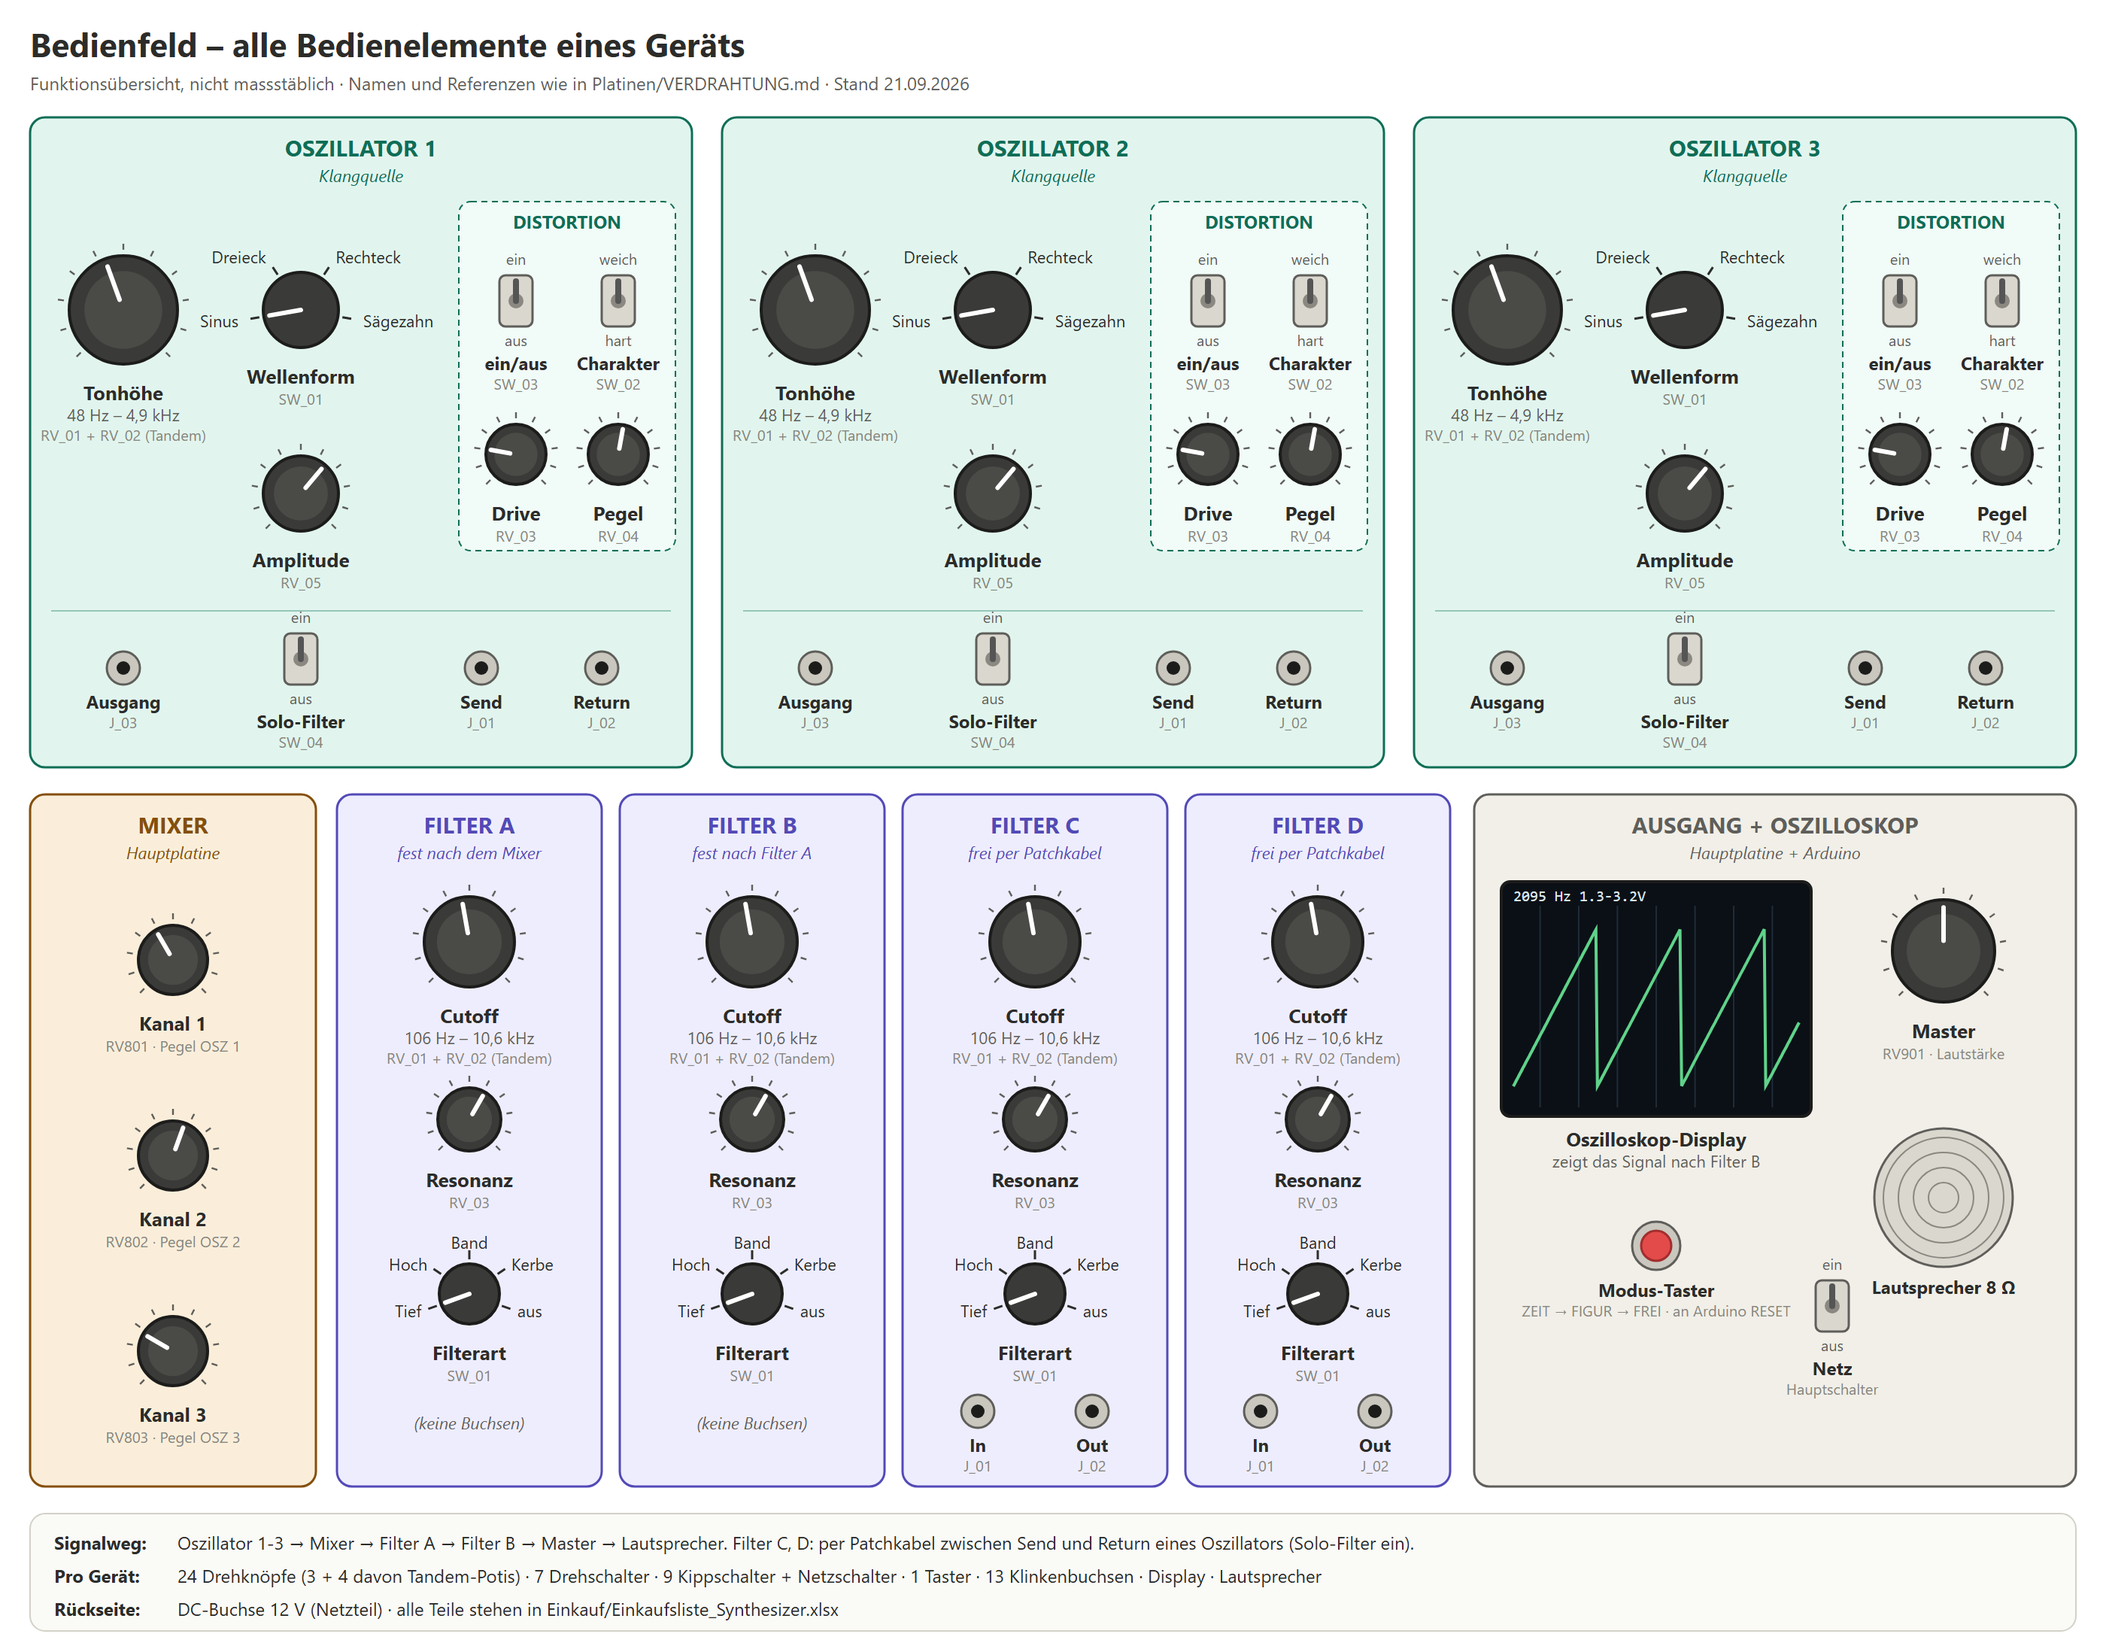
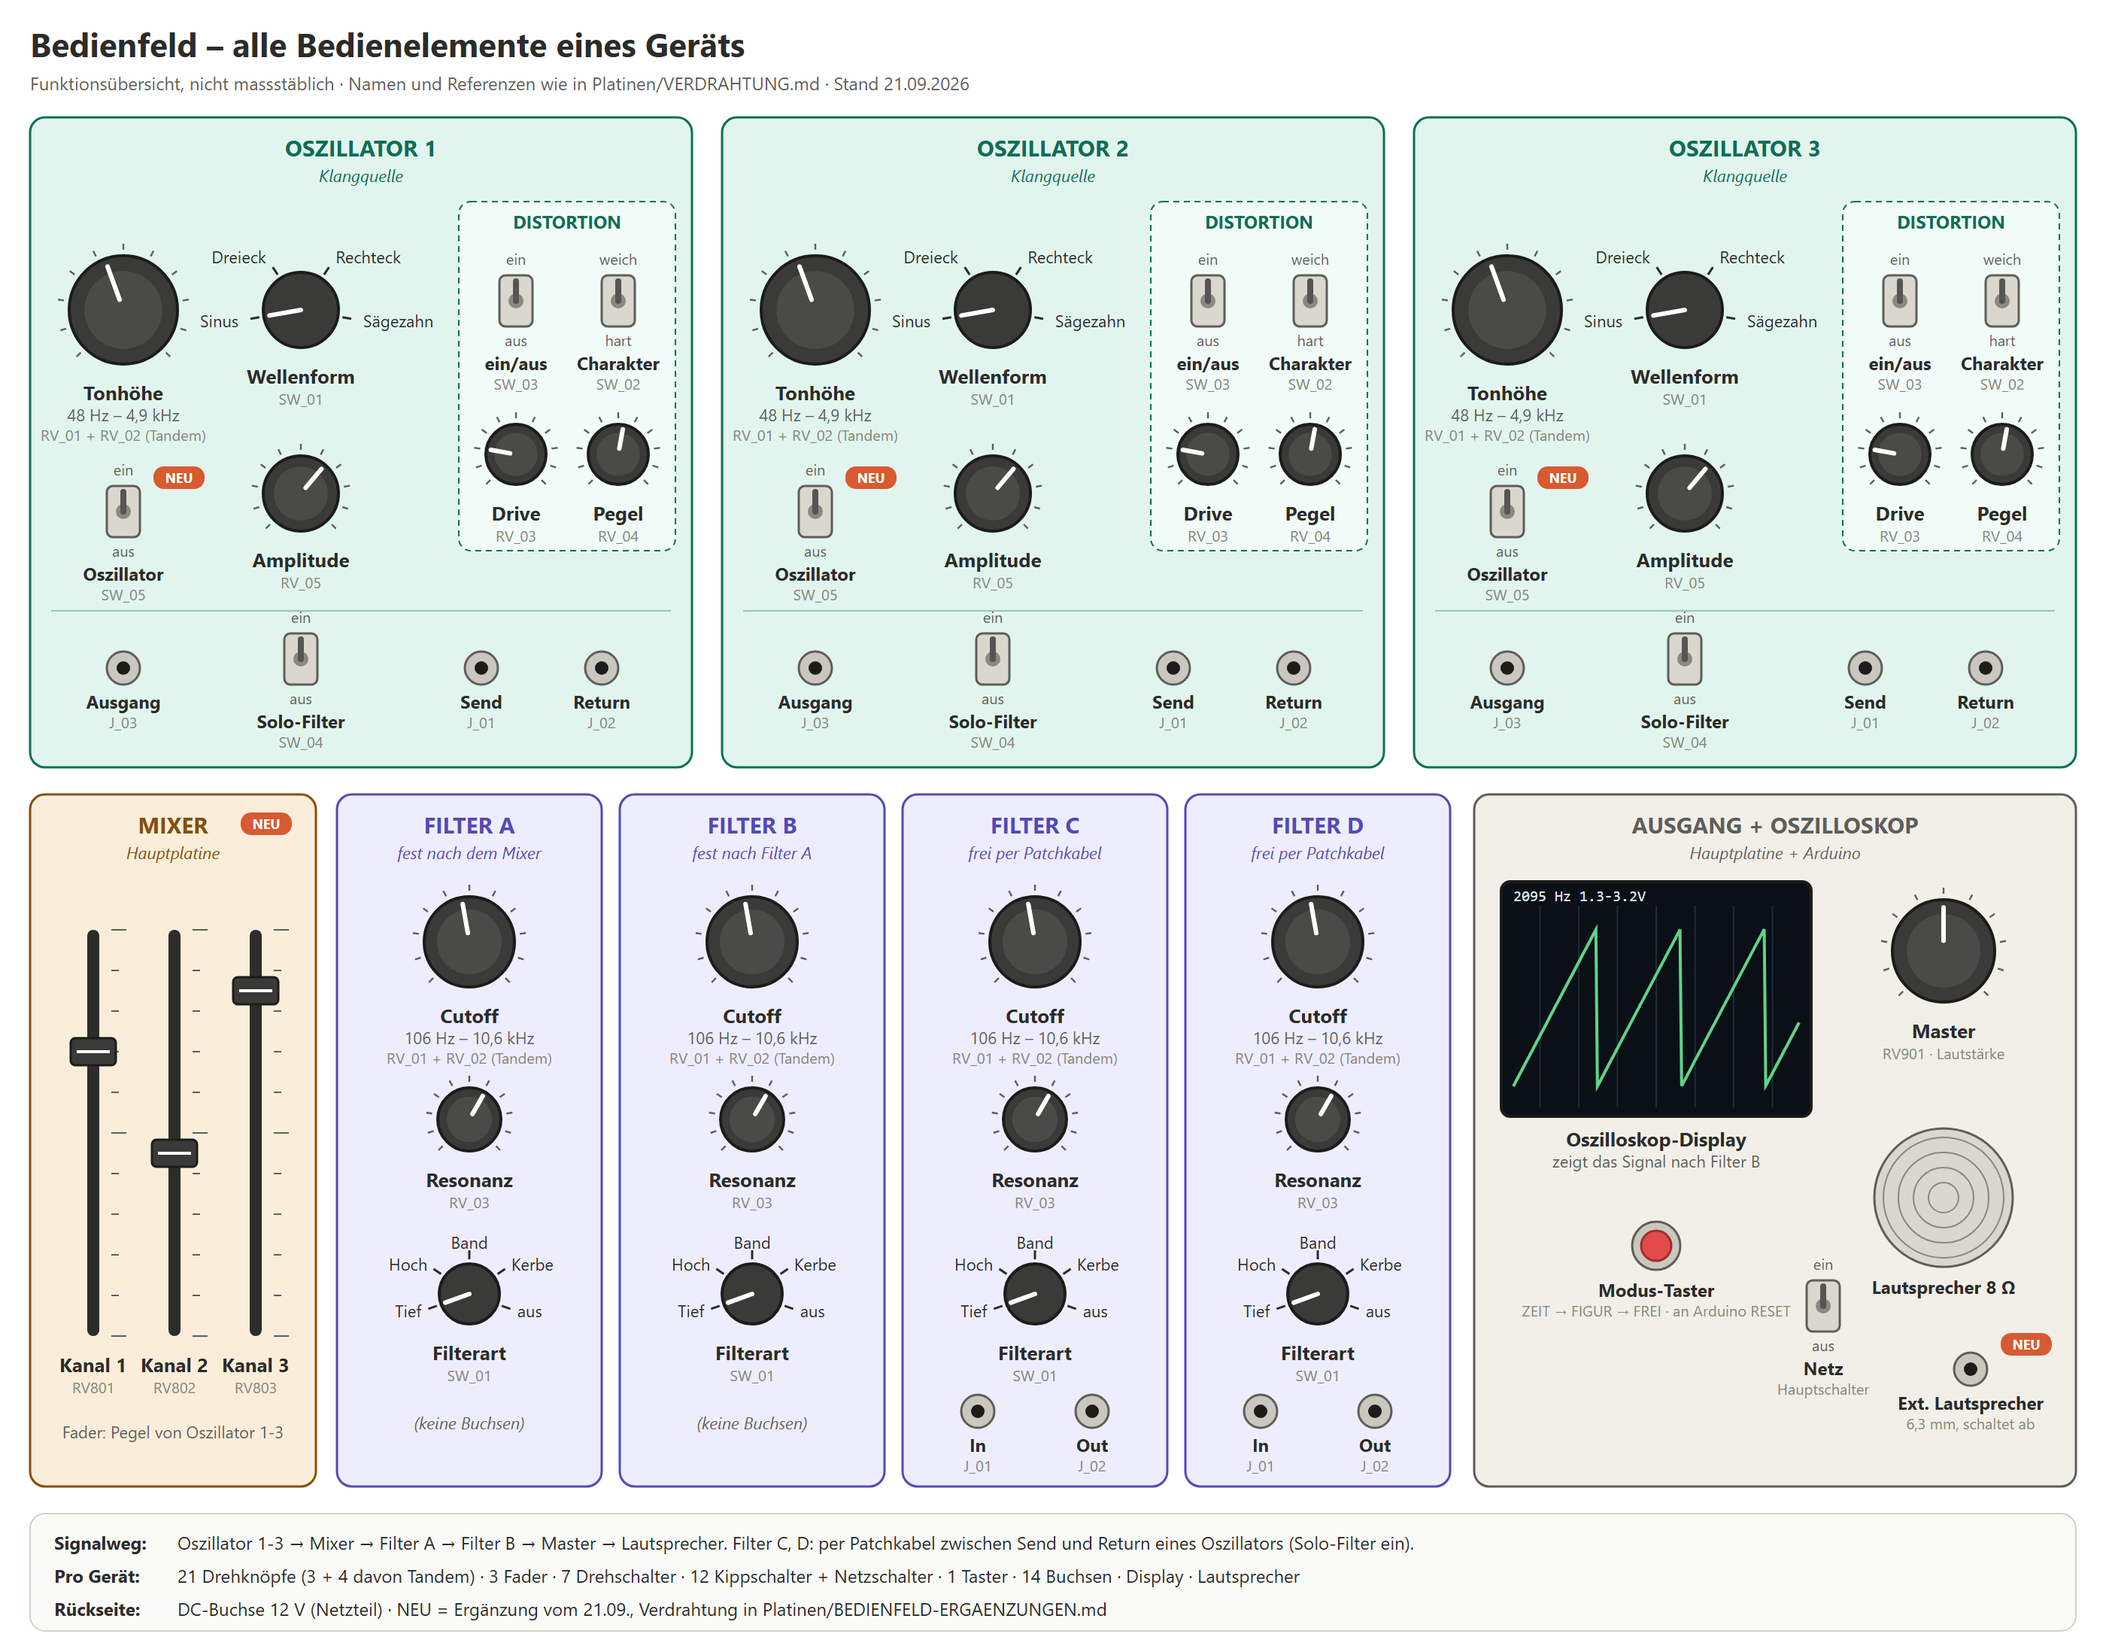
Bedienfeld: Oszillator ein/aus, Mixer-Fader, Buchse fuer eigenen Lautsprecher
Alles Bedienfeld-Verdrahtung, keine Platinenaenderung. SW_05 schaltet den
Eingang von U104B zwischen Amplituden-Poti und Masse um (nicht Schleifer
auf Masse - das wuerde bei vollem Poti U104A kurzschliessen). Schaltende
6,3-mm-Buchse trennt den eingebauten Lautsprecher ab. Verdrahtung in
Platinen/BEDIENFELD-ERGAENZUNGEN.md, Einkaufsliste und Uebersichtsbild
aktualisiert.

diff --git a/Werkzeuge/panel_svg.py b/Werkzeuge/panel_svg.py
@@ -69,6 +69,21 @@ def toggle(cx, cy, label, up, down, ref):
     text(cx, cy + 46, label, 12, 700)
     text(cx, cy + 59, ref, 10, 400, REF)
 
+def new_badge(x, y):
+    add('<rect x="%.1f" y="%.1f" width="34" height="15" rx="7" fill="#D85A30"/>' % (x, y))
+    text(x + 17, y + 11, 'NEU', 9, 700, '#ffffff')
+
+def slider(cx, top, length, label, ref, pos=0.6):
+    add('<rect x="%.1f" y="%.1f" width="8" height="%.1f" rx="4" fill="#2C2C2A"/>' % (cx - 4, top, length))
+    for k in range(11):
+        yy = top + length * k / 10
+        add('<line x1="%.1f" y1="%.1f" x2="%.1f" y2="%.1f" stroke="%s" stroke-width="1"/>' % (cx + 12, yy, cx + (22 if k % 5 == 0 else 17), yy, MUTED))
+    cy = top + length * (1 - pos)
+    add('<rect x="%.1f" y="%.1f" width="30" height="18" rx="3" fill="#3a3a38" stroke="#1c1c1b" stroke-width="1.5"/>' % (cx - 15, cy - 9))
+    add('<line x1="%.1f" y1="%.1f" x2="%.1f" y2="%.1f" stroke="#fff" stroke-width="2"/>' % (cx - 11, cy, cx + 11, cy))
+    text(cx, top + length + 24, label, 13, 700)
+    text(cx, top + length + 38, ref, 10, 400, REF)
+
 def jack(cx, cy, label, ref):
     add('<circle cx="%.1f" cy="%.1f" r="11" fill="#c9c7be" stroke="%s" stroke-width="1.5"/>' % (cx, cy, MUTED))
     add('<circle cx="%.1f" cy="%.1f" r="4.5" fill="#1c1c1b"/>' % (cx, cy))
@@ -86,6 +101,8 @@ for i in range(3):
     panel(x0, y0, w, h, 'OSZILLATOR %d' % (i + 1), C_OSC, C_OSC_S, 'Klangquelle')
     knob(x0 + 62, y0 + 128, 36, 'Tonhöhe', 'RV_01 + RV_02 (Tandem)', '48 Hz – 4,9 kHz', pointer=-20)
     knob(x0 + 180, y0 + 250, 25, 'Amplitude', 'RV_05', pointer=40)
+    toggle(x0 + 62, y0 + 262, 'Oszillator', 'ein', 'aus', 'SW_05')
+    new_badge(x0 + 82, y0 + 232)
     rotary(x0 + 180, y0 + 128, 25, 'Wellenform', 'SW_01', ['Sinus', 'Dreieck', 'Rechteck', 'Sägezahn'], lab_r=42, start=-100, span=200)
     # distortion block
     dx, dy = x0 + 285, y0 + 56
@@ -105,8 +122,10 @@ for i in range(3):
 # ---------------- mixer ----------------
 x0, y0, w, h = 20, 528, 190, 460
 panel(x0, y0, w, h, 'MIXER', C_MIX, C_MIX_S, 'Hauptplatine')
-for k, (cy, pt) in enumerate(((y0 + 110, -30), (y0 + 240, 20), (y0 + 370, -60))):
-    knob(x0 + 95, cy, 23, 'Kanal %d' % (k + 1), 'RV80%d · Pegel OSZ %d' % (k + 1, k + 1), pointer=pt)
+for k, pos in enumerate((0.7, 0.45, 0.85)):
+    slider(x0 + 42 + k * 54, y0 + 90, 270, 'Kanal %d' % (k + 1), 'RV80%d' % (k + 1), pos)
+text(x0 + 95, y0 + 428, 'Fader: Pegel von Oszillator 1-3', 11, 400, MUTED)
+new_badge(x0 + 140, y0 + 12)
 
 # ---------------- filters ----------------
 names = [('A', 'fest nach dem Mixer'), ('B', 'fest nach Filter A'), ('C', 'frei per Patchkabel'), ('D', 'frei per Patchkabel')]
@@ -151,8 +170,10 @@ add('<circle cx="%d" cy="%d" r="46" fill="#d9d7ce" stroke="%s" stroke-width="1.5
 for rr in (10, 20, 30, 40):
     add('<circle cx="%d" cy="%d" r="%d" fill="none" stroke="#8a8880" stroke-width="1"/>' % (gx, gy, rr))
 text(gx, gy + 64, 'Lautsprecher 8 Ω', 12, 700)
+jack(gx + 18, y0 + 382, 'Ext. Lautsprecher', '6,3 mm, schaltet ab')
+new_badge(gx + 38, y0 + 358)
 # power
-toggle(x0 + 238, y0 + 340, 'Netz', 'ein', 'aus', 'Hauptschalter')
+toggle(x0 + 232, y0 + 340, 'Netz', 'ein', 'aus', 'Hauptschalter')
 
 # ---------------- rear + summary ----------------
 yb = 1006
@@ -160,9 +181,9 @@ add('<rect x="20" y="%d" width="%d" height="78" rx="10" fill="#fafaf7" stroke="#
 text(36, yb + 24, 'Signalweg:', 12, 700, INK, 'start')
 text(118, yb + 24, 'Oszillator 1-3 → Mixer → Filter A → Filter B → Master → Lautsprecher.   Filter C, D: per Patchkabel zwischen Send und Return eines Oszillators (Solo-Filter ein).', 12, 400, INK, 'start')
 text(36, yb + 46, 'Pro Gerät:', 12, 700, INK, 'start')
-text(118, yb + 46, '24 Drehknöpfe (3 + 4 davon Tandem-Potis) · 7 Drehschalter · 9 Kippschalter + Netzschalter · 1 Taster · 13 Klinkenbuchsen · Display · Lautsprecher', 12, 400, INK, 'start')
+text(118, yb + 46, '21 Drehknöpfe (3 + 4 davon Tandem) · 3 Fader · 7 Drehschalter · 12 Kippschalter + Netzschalter · 1 Taster · 14 Buchsen · Display · Lautsprecher', 12, 400, INK, 'start')
 text(36, yb + 68, 'Rückseite:', 12, 700, INK, 'start')
-text(118, yb + 68, 'DC-Buchse 12 V (Netzteil) · alle Teile stehen in Einkauf/Einkaufsliste_Synthesizer.xlsx', 12, 400, INK, 'start')
+text(118, yb + 68, 'DC-Buchse 12 V (Netzteil) · NEU = Ergänzung vom 21.09., Verdrahtung in Platinen/BEDIENFELD-ERGAENZUNGEN.md', 12, 400, INK, 'start')
 add('</svg>')
 
 html = '<html><head><meta charset="utf-8"><style>body{margin:0;background:#fff}</style></head><body>' + '\n'.join(out) + '</body></html>'

diff --git a/Werkzeuge/shoplist_data.py b/Werkzeuge/shoplist_data.py
@@ -139,16 +139,22 @@ panel = [
      'Cutoff. Gleiches Problem wie bei der Tonhöhe - log empfohlen'),
     ('Poti', '100 kΩ lin (B)', '16 mm, Achse 6 mm', 'RV_03 je Oszillator (Drive)', 3, 1, MUS, 'Alpha 16mm 100k lin', 1.20, ''),
     ('Poti', '100 kΩ log (A)', '16 mm, Achse 6 mm', 'RV_04 je Oszillator (Distortion-Pegel)', 3, 1, MUS, 'Alpha 16mm 100k log', 1.20, ''),
-    ('Poti', '10 kΩ log (A)', '16 mm, Achse 6 mm', 'RV_05 je Osz. (Amplitude), 3 × Mixer, Master', 7, 2, MUS, 'Alpha 16mm 10k log', 1.20, ''),
+    ('Poti', '10 kΩ log (A)', '16 mm, Achse 6 mm', 'RV_05 je Osz. (Amplitude), Master (RV901)', 4, 1, MUS, 'Alpha 16mm 10k log', 1.20, ''),
+    ('Schiebepoti (Fader)', '10 kΩ log (A)', 'mono, 45 mm Schiebeweg, Lötfahnen', 'Mixer Kanal 1-3 (RV801-RV803)', 3, 1, MUS, 'Schiebepoti 10k log 45mm mono', 2.50,
+     'statt Drehpoti; gleiche 3 Anschlüsse wie im Verdrahtungsplan. Braucht einen Schlitz in der Front'),
+    ('Fader-Knopf', 'passend zum Schiebepoti', '', 'Mixer', 3, 1, MUS, 'Faderknopf', 1.00, 'Schaftbreite mit dem Schiebepoti abgleichen'),
     ('Poti', '47 kΩ lin (B)', '16 mm, Achse 6 mm', 'RV_03 je Filter (Resonanz)', 4, 1, MUS, 'Alpha 16mm 50k lin', 1.20, '50 kΩ lin ist gängiger und geht genauso'),
     ('Drehschalter', '1 × 12, Anschlag einstellbar', 'Achse 6 mm, Lötfahnen', 'SW_01 Oszillator (4 Stellungen), SW_01 Filter (5 Stellungen)', 7, 1, MUS,
      'Drehschalter 1x12 einstellbar (Lorlin/Alpha)', 3.50, 'Anschlag mit der Scheibe auf 4 bzw. 5 Stellungen setzen'),
-    ('Kippschalter', 'EIN-EIN (1 × UM)', 'SPDT, 6 mm Einbau', 'SW_02, SW_03, SW_04 je Oszillator', 9, 1, MUS, 'Kippschalter SPDT ON-ON', 1.80, ''),
+    ('Kippschalter', 'EIN-EIN (1 × UM)', 'SPDT, 6 mm Einbau', 'SW_02, SW_03, SW_04 + neu SW_05 (Oszillator ein/aus) je Oszillator', 12, 1, MUS, 'Kippschalter SPDT ON-ON', 1.80,
+     'SW_05 schaltet den Buffer-Eingang zwischen Amplituden-Poti und Masse um - siehe Platinen/BEDIENFELD-ERGAENZUNGEN.md'),
     ('Klinkenbuchse', '3,5 mm mono', 'Einbaubuchse, isoliert', 'J_01..J_03 je Osz., Filter C/D ein/aus', 13, 2, MUS, 'Klinkenbuchse 3,5mm mono isoliert', 1.00, ''),
-    ('Drehknopf', 'für 6-mm-Achse', 'mit Madenschraube', '24 Potis + 7 Drehschalter', 31, 3, MUS, 'Drehknopf 6mm Achse', 1.00,
+    ('Drehknopf', 'für 6-mm-Achse', 'mit Madenschraube', '21 Drehpotis + 7 Drehschalter', 28, 3, MUS, 'Drehknopf 6mm Achse', 1.00,
      'Achse der Potis vor dem Kauf abgleichen (6 mm oder 1/4")'),
     ('Taster', 'Schliesser, tastend', 'Einbau ca. 7 mm', 'Oszilloskop-Modus ZEIT/FIGUR/FREI', 1, 1, MUS, 'Taster Schliesser tastend', 1.50,
      'zwischen Arduino-Pin RESET und GND - wirkt wie der RESET-Knopf auf dem Arduino, der im Gehäuse sitzt'),
+    ('Klinkenbuchse', '6,3 mm mono, mit Schaltkontakt', 'Einbaubuchse', 'Lautsprecher-Ausgang', 1, 0, MUS, 'Klinkenbuchse 6,3mm mono schaltend', 2.50,
+     'Stecker rein = eingebauter Lautsprecher aus, externer an. Externer Lautsprecher: 8 Ω oder mehr'),
     ('Lautsprecher', '8 Ω, ≥ 0,5 W', 'Ø 50-77 mm', 'an J904', 1, 0, DIS, 'Lautsprecher 8 Ohm 1W 66mm', 5.00,
      'Der vorhandene 4-Ω-Lautsprecher überlastet den LM386 an 12 V eher - 8 Ω wie geplant'),
     ('Patchkabel', '3,5 mm mono', '30 cm', 'Filter C/D einschleifen', 4, 0, MUS, 'Patchkabel 3,5mm 30cm', 2.00, ''),

diff --git a/Platinen/BEDIENFELD-ERGAENZUNGEN.md b/Platinen/BEDIENFELD-ERGAENZUNGEN.md
@@ -1,0 +1,88 @@
+# Bedienfeld – Ergänzungen vom 21.09.2026
+
+Diese Teile sind **nachträglich** dazugekommen. Sie sitzen alle im Bedienfeld bzw.
+neben dem Arduino und ändern **nichts an den Platinen** – die bestellten
+Leiterplatten bleiben, wie sie sind. `VERDRAHTUNG.md` wird aus dem Schaltplan
+erzeugt und kennt diese Teile deshalb nicht; hier steht, wie sie angeschlossen
+werden. Übersichtsbild: `Bilder/Schaltplaene/2026-09-21_bedienfeld-uebersicht.png`.
+
+## 1. Oszillator ein/aus – `SW_05` (je Oszillator)
+
+Kippschalter **EIN-EIN (1 × UM, SPDT)**, gleicher Typ wie die anderen.
+
+Normalerweise geht die Ader von **J_12 Pin 11** (`O1_LVL_W`) an den Schleifer des
+Amplituden-Potis `RV_05`. Neu läuft sie über den Schalter:
+
+| Ader / Anschluss | geht an |
+|---|---|
+| J_12 Pin 11 (`O1_LVL_W`) | **SW_05 Mitte** (statt an RV_05 Lug 2) |
+| SW_05 Stellung „ein" | RV_05 **Lug 2** (Schleifer) |
+| SW_05 Stellung „aus" | RV_05 **Lug 3** (CCW, Masse – dort liegt schon J_12 Pin 8) |
+
+**Warum so und nicht einfach die Leitung auftrennen:** Dahinter sitzt der Eingang
+eines Operationsverstärkers (`U104B`). Offen gelassen würde er Brummen und
+Rauschen einfangen. Der Umschalter legt ihn in „aus" sauber auf Masse. Den
+Schleifer direkt auf Masse zu schalten wäre falsch: steht das Poti auf Voll, würde
+das den Ausgang von `U104A` kurzschliessen.
+
+Mit „aus" ist der Oszillator im Mixer **und** an seiner Buchse „Ausgang" stumm;
+er schwingt intern weiter, was nicht stört.
+
+## 2. Mixer als Schieberegler – `RV801`–`RV803`
+
+**Schiebepoti 10 kΩ log**, mono, 45 mm Schiebeweg. Elektrisch identisch mit den
+Drehpotis – die drei Anschlüsse aus `VERDRAHTUNG.md` (Hauptplatine J_12
+Pin 1–9) bleiben gleich:
+
+| Poti-Anschluss | Ader |
+|---|---|
+| Ende, an dem der Regler **oben** steht | „Lug 1 (CW)" – das Signal |
+| Schleifer | „Lug 2 (Schleifer)" |
+| Ende, an dem der Regler **unten** steht | „Lug 3 (CCW)" – Masse |
+
+So bedeutet **oben = laut**. Welches Ende welches ist, mit dem Multimeter prüfen:
+zwischen Schleifer und Masse-Ende muss der Widerstand steigen, wenn man den Regler
+nach oben schiebt. Die Front braucht dafür je einen **Schlitz** statt eines Lochs.
+
+Der Master (`RV901`) bleibt ein Drehknopf.
+
+## 3. Anschluss für einen eigenen Lautsprecher
+
+**Klinkenbuchse 6,3 mm mono mit Schaltkontakt.** Solange kein Stecker drin ist,
+spielt der eingebaute Lautsprecher; sobald einer steckt, ist er abgetrennt und
+nur der externe spielt.
+
+| Anschluss | geht an |
+|---|---|
+| Hauptplatine **J904 Pin 1** (Lautsprecher, schon gleichspannungsfrei hinter `C904`) | Buchse **Spitze** |
+| Buchse **Schaltkontakt** der Spitze | eingebauter Lautsprecher **+** |
+| Hauptplatine **J904 Pin 2** (Masse) | Buchse **Hülse** und eingebauter Lautsprecher **−** |
+
+Externer Lautsprecher: **8 Ω oder mehr**. Ein Send/Return ist dafür nicht nötig –
+der Lautsprecher ist das Ende der Kette.
+
+## 4. Modus-Taster für das Oszilloskop
+
+**Taster, Schliesser, tastend.** Ein Anschluss an den **RESET**-Pin des Arduino,
+der andere an **GND**. Wirkt genau wie der RESET-Knopf auf dem Arduino, der im
+Gehäuse sitzt: jeder Druck schaltet ZEIT → FIGUR → FREI weiter.
+
+## 5. Arduino: Versorgung und Messeingang (schon eingeplant)
+
+* **Strom:** 12 V vom Netzteil-Platinchen an die **Rundbuchse des Arduino**
+  (DC-Kabel 5,5/2,1 mm). Der Arduino macht daraus selbst 5 V für sich, das
+  Display und die Eingangsstufe. USB ist nur noch zum Programmieren nötig.
+* **Gemeinsame Masse:** 0 V des TRACO-Wandlers mit dem Minus des 12-V-Netzteils
+  verbinden – sonst misst der Arduino ohne Bezug.
+* **Messeingang:** `FILT_B_OUT` (Hauptplatine **J817 Pin 1**) über die
+  Eingangsstufe an **A0**: 1 µF → 47 kΩ → Knoten (47 kΩ nach +5 V, 47 kΩ nach
+  GND) → 1 kΩ → A0, dazu zwei BAT85 von A0 nach +5 V und nach GND. Teilt durch 3
+  und hebt auf 2,5 V: ±7 V → 0,2 … 4,8 V; auch ±11 V schaden nicht.
+
+## Nicht geändert: Distortion weich/hart
+
+Der Schalter `SW_02` bleibt ein Umschalter. Die harte Begrenzung (`D105/D106`)
+ist **immer** im Signalweg; `SW_02` schaltet nur die weichen Dioden
+(`D103/D104`) in die Gegenkopplung von `U103A` dazu. In „weich" arbeiten also
+beide – die weichen runden zuerst ab, die harten kappen danach nur noch die
+Spitzen. Eine dritte Stellung „beide" gäbe es elektrisch nicht.

diff --git a/Platinen/README.md b/Platinen/README.md
@@ -42,6 +42,7 @@ wurde.
 | `Fertigung/*.zip` | die Dateien für den Platinenhersteller: Gerber, Bohrdaten, Bohrplan. So hochladen wie sie sind |
 | `Stuecklisten/` | eine Stückliste pro Platine |
 | [`VERDRAHTUNG.md`](VERDRAHTUNG.md) | **die wichtigste Datei beim Zusammenbau**: welches Kabel von wo nach wo, Draht für Draht |
+| [`BEDIENFELD-ERGAENZUNGEN.md`](BEDIENFELD-ERGAENZUNGEN.md) | nachträglich dazugekommen: Oszillator ein/aus, Mixer-Fader, Buchse für eigenen Lautsprecher, Modus-Taster, Arduino-Anschluss |
 | `*-bestueckung.pdf` | Bestückungsplan zum Ausdrucken |
 
 ## Aufbau der Platinen
